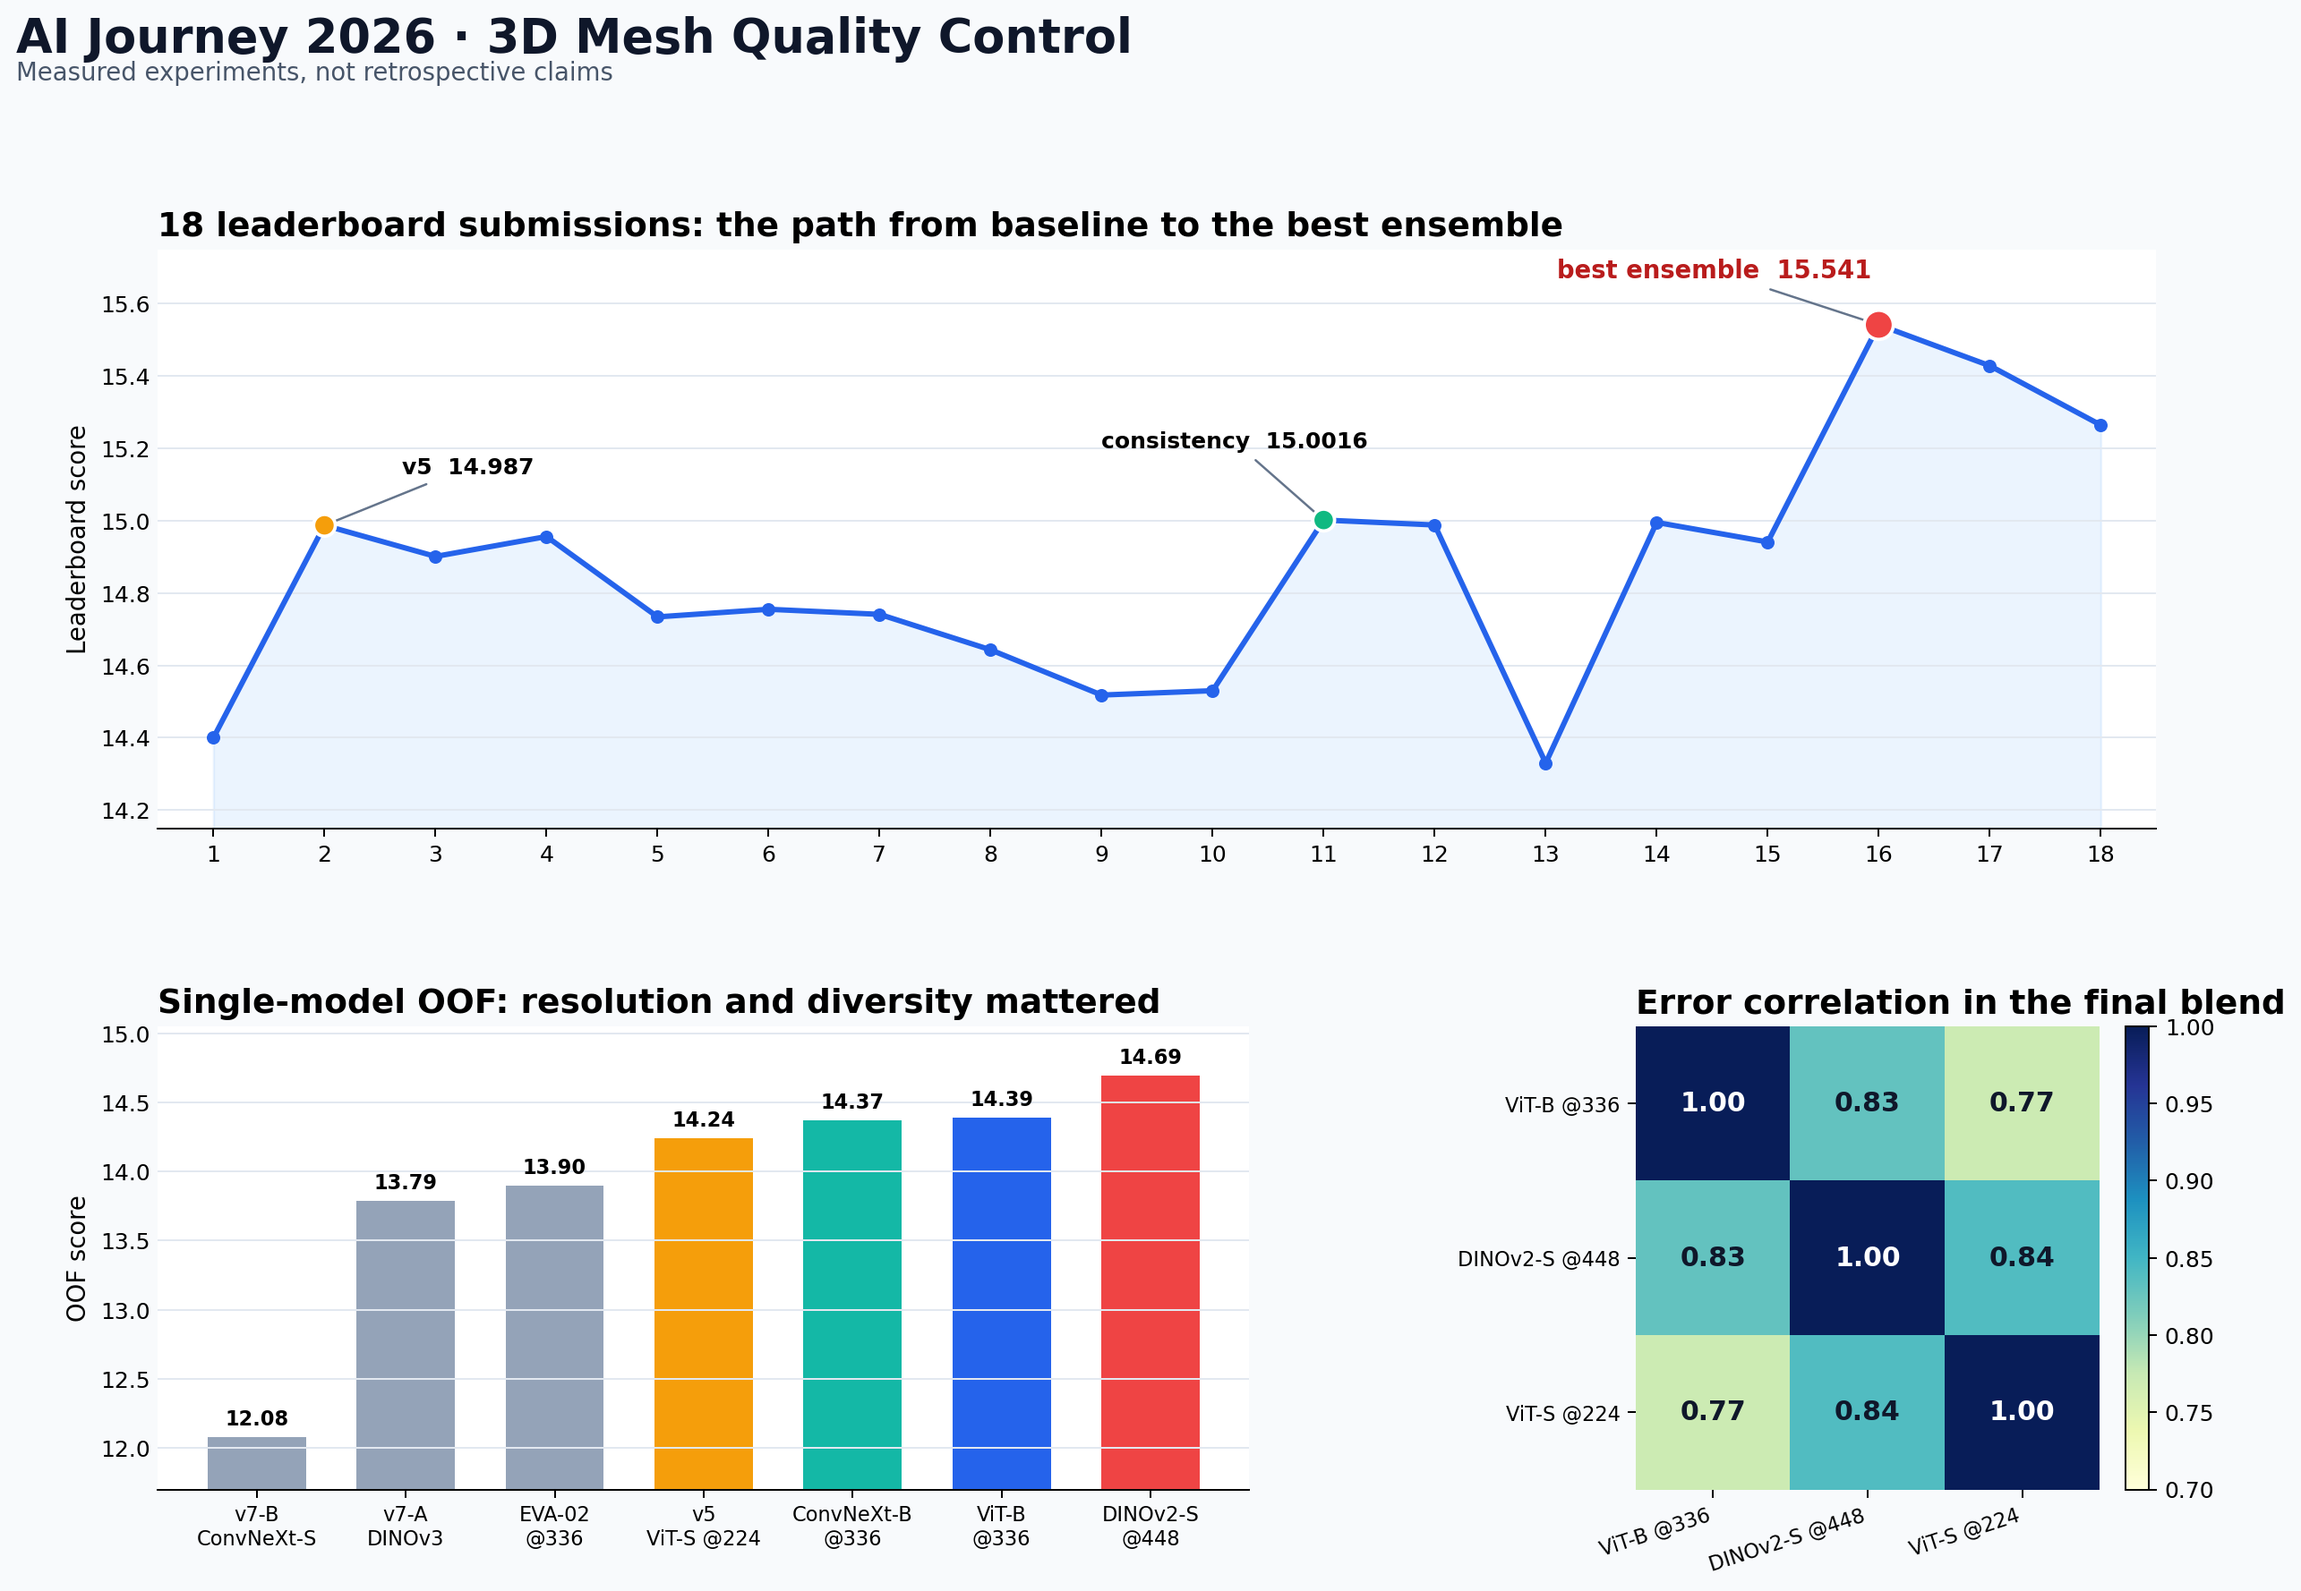
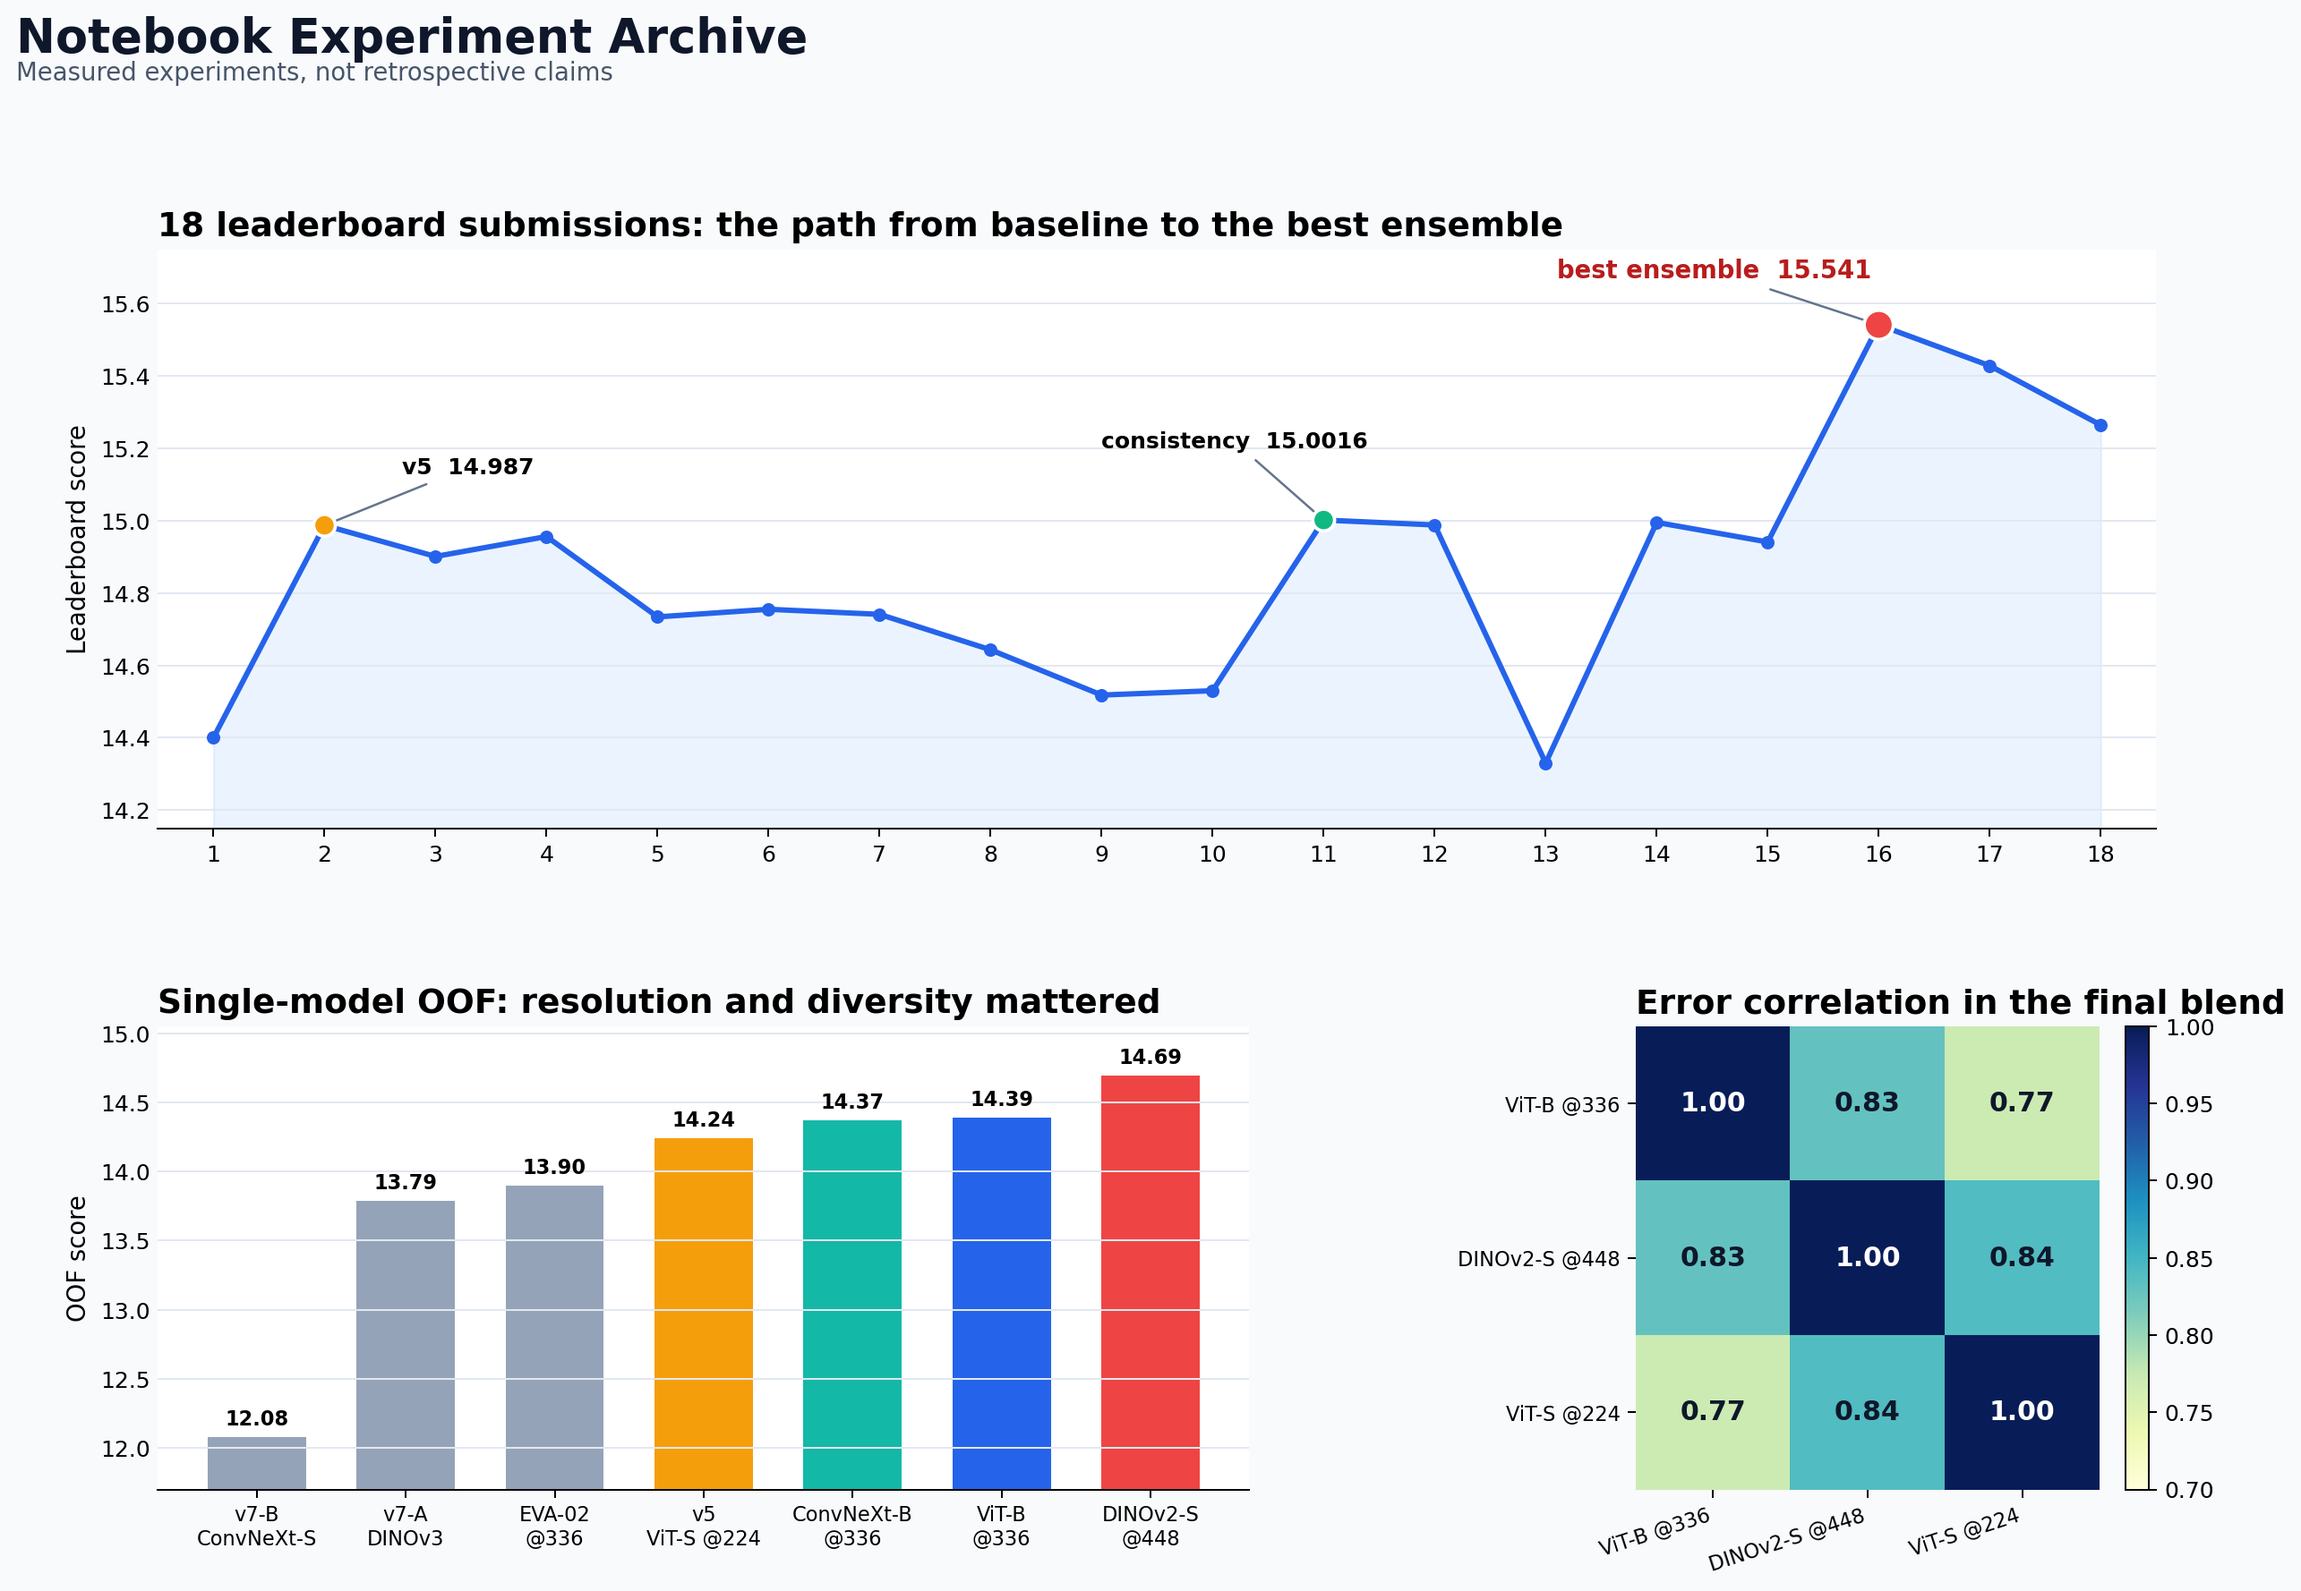
Use neutral repository presentation metadata

Changed region(s): [[0.0, 0.0, 0.4981, 0.0309]]

diff --git a/README.md b/README.md
@@ -1,6 +1,6 @@
-# AI Journey 2026 · 3D Mesh Quality Control
+# Notebook Experiment Archive
 
-> Репозиторий экспериментов: от первого multi-view baseline до ансамбля с результатом **15.541**.
+> Архив экспериментов: от первого multi-view baseline до лучшей проверенной сборки с результатом **15.541**.
 
 [![best leaderboard](https://img.shields.io/badge/best%20leaderboard-15.541-e11d48?style=for-the-badge)](submissions/final_15541.csv)
 [![nested CV](https://img.shields.io/badge/nested%20CV-14.855-2563eb?style=for-the-badge)](docs/EXPERIMENTS.md)

diff --git a/notebooks/README.md b/notebooks/README.md
@@ -1,4 +1,4 @@
-# Карта ноутбуков
+# Notebook Map
 
 Основная последовательность сохранена под едиными именами `sber_v1`–`sber_v8`. Папка `archive/` содержит уникальные контрольные и альтернативные сборки из рабочего архива.
 
